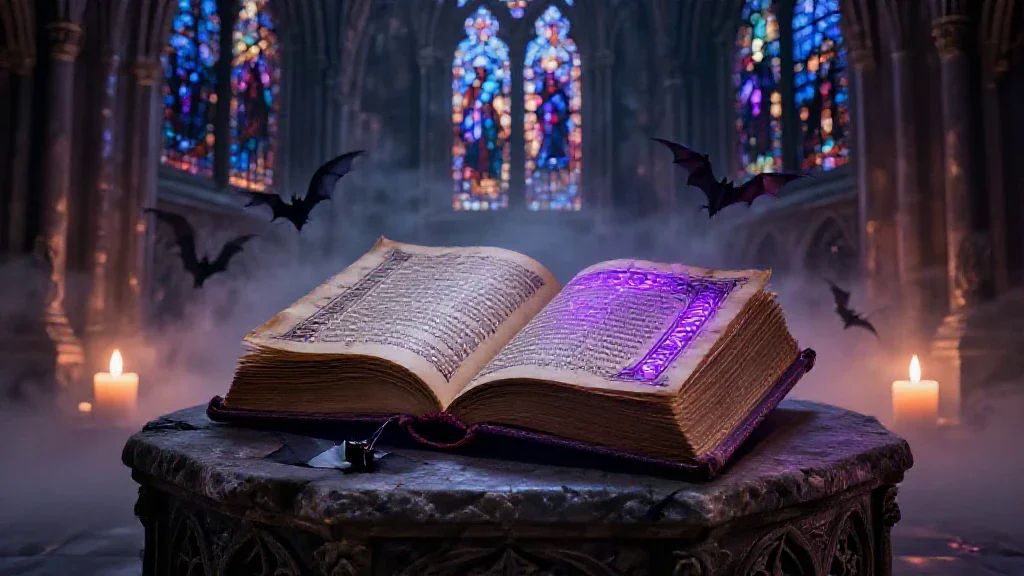
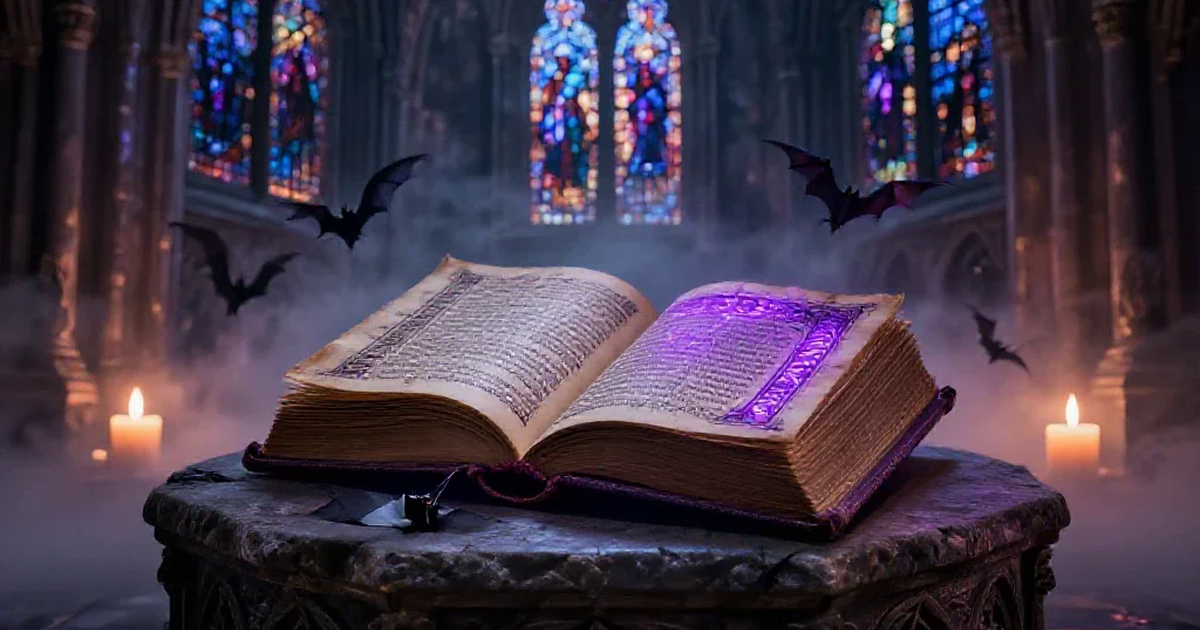
Open Graph : image 1200 x 630 et metadonnees completes

diff --git a/index.html b/index.html
@@ -24,16 +24,17 @@
     <meta property="og:title" content="Jeux Halloween Gratuits en Ligne · Le Grimoire de Minuit" />
     <meta property="og:description" content="Compilation gothique immersive de 8 mini-jeux d arcade, de survie et d énigmes d Halloween jouables directement dans le navigateur." />
     <meta property="og:url" content="https://games.hylst.fr/halloween/" />
-    <meta property="og:image" content="https://games.hylst.fr/halloween/og-image.png" />
-    <meta property="og:image:width" content="1024" />
-    <meta property="og:image:height" content="576" />
+    <meta property="og:image" content="https://games.hylst.fr/halloween/og-image.png?v=2" />
+    <meta property="og:image:type" content="image/png" />
+    <meta property="og:image:width" content="1200" />
+    <meta property="og:image:height" content="630" />
     <meta property="og:image:alt" content="L Antre d Halloween - Le Grimoire de Minuit" />
 
     <!-- Twitter Cards -->
     <meta name="twitter:card" content="summary_large_image" />
     <meta name="twitter:title" content="Jeux Halloween Gratuits en Ligne · Le Grimoire de Minuit" />
     <meta name="twitter:description" content="Compilation gothique de 8 mini-jeux d Halloween gratuits : arcade rétro, survie zombies et énigmes du manoir hanté." />
-    <meta name="twitter:image" content="https://games.hylst.fr/halloween/og-image.png" />
+    <meta name="twitter:image" content="https://games.hylst.fr/halloween/og-image.png?v=2" />
 
     <!-- Schema.org Données Structurées JSON-LD -->
     <script type="application/ld+json">
